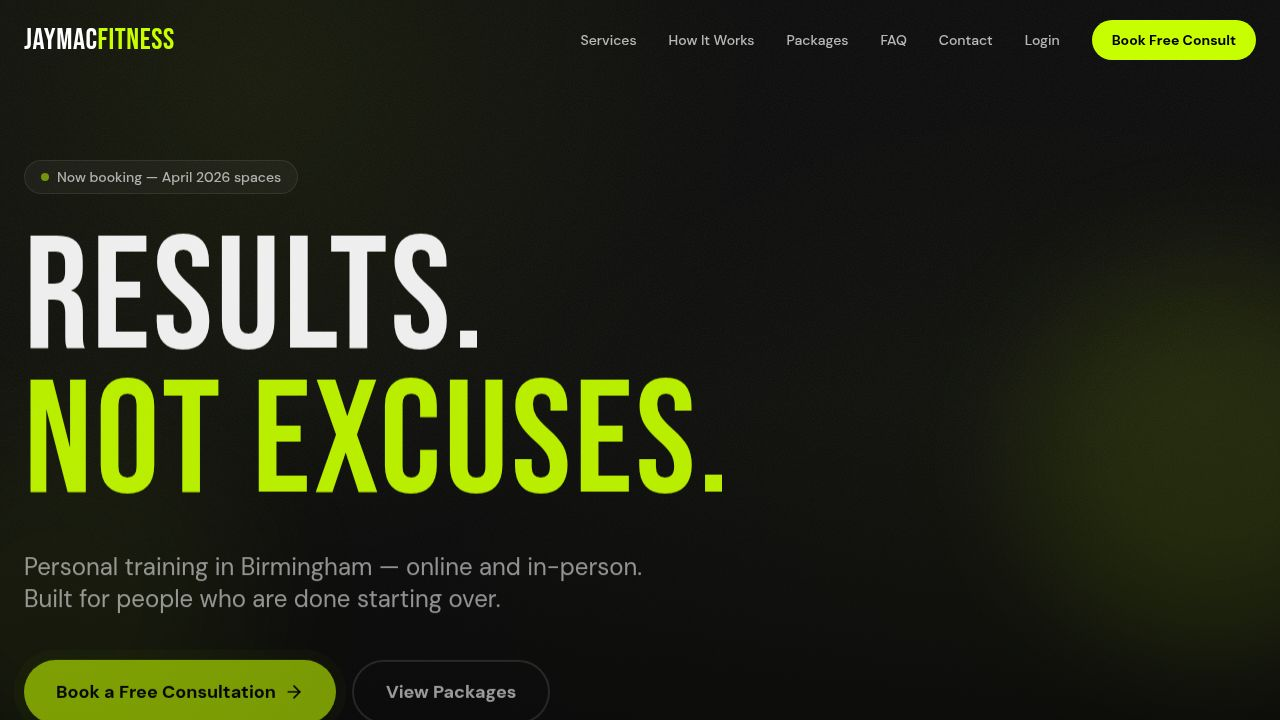
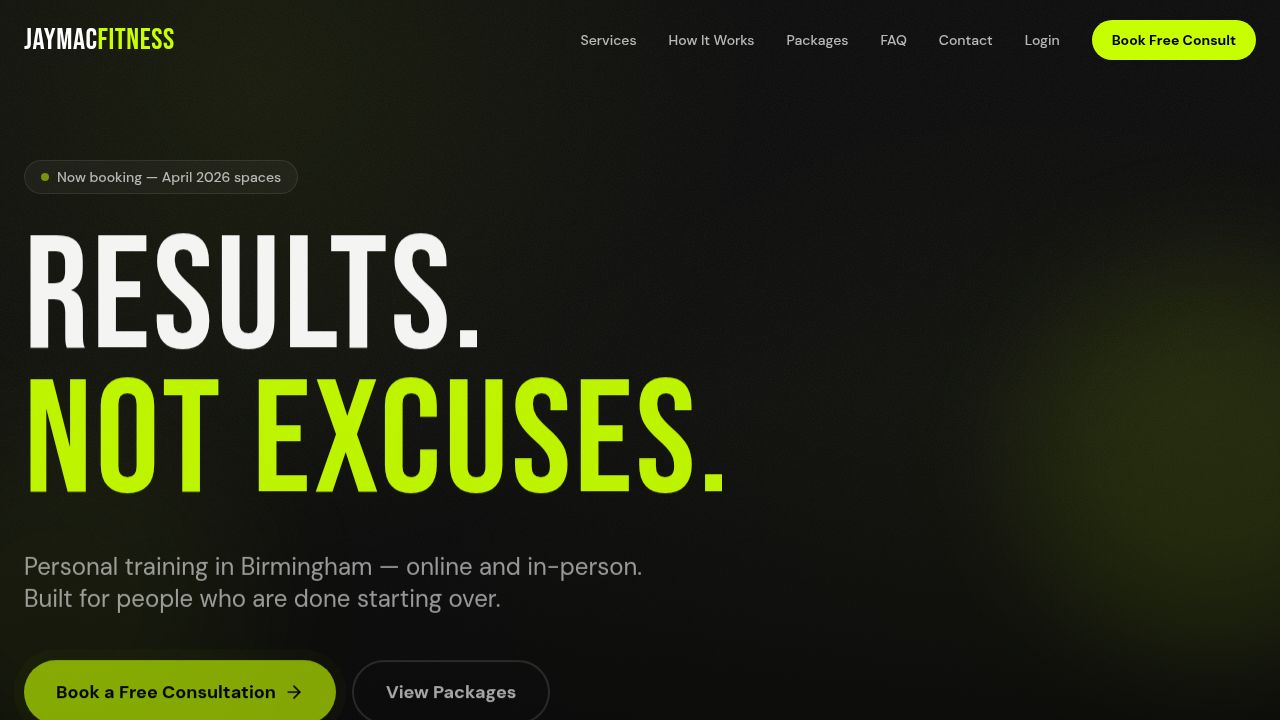
Update website with new brand design and animations
Integrates new brand colors, fonts, and scroll reveal animations by modifying index.html, index.css, and adding a new scroll reveal utility.

Replit-Commit-Author: Agent
Replit-Commit-Session-Id: 063ad3c7-bd3a-4355-8c81-c77b68ed282b
Replit-Commit-Checkpoint-Type: full_checkpoint
Replit-Commit-Event-Id: 6ffffbf3-f197-4167-8d24-1343ebe39515
Replit-Commit-Screenshot-Url: https://storage.googleapis.com/screenshot-production-us-central1/34500658-50cf-4da8-bcaa-9214d503f589/063ad3c7-bd3a-4355-8c81-c77b68ed282b/BA3gLNy
Replit-Helium-Checkpoint-Created: true

Changed region(s): [[0.5, 0.5194, 0.5312, 0.55], [0.4062, 0.5194, 0.4375, 0.55]]

diff --git a/artifacts/jaymacfitness/src/index.css b/artifacts/jaymacfitness/src/index.css
@@ -64,6 +64,16 @@
   --radius-md: calc(var(--radius) - 2px);
   --radius-lg: var(--radius);
   --radius-xl: calc(var(--radius) + 4px);
+
+  /* Jay Mac brand palette — usable as Tailwind utilities (bg-navy, text-blue-soft, etc.) */
+  --color-navy: #0D1B2A;
+  --color-navy-dark: #0A1628;
+  --color-navy-mid: #112240;
+  --color-navy-steel: #1A3A5C;
+  --color-blue: #1E90FF;
+  --color-blue-soft: #4DAAFF;
+  --color-blue-glow: rgba(30, 144, 255, 0.15);
+  --color-offwhite: #C8D8E8;
 }
 
 /* LIGHT MODE */
@@ -409,4 +419,100 @@
   .border.hover-elevate:not(.no-hover-interaction-elevate)::after {
     inset: -1px;
   }
+}
+/* ===========================================================================
+   JAY MAC FITNESS BRAND DESIGN SYSTEM
+   =========================================================================== */
+:root {
+  --brand-blue: #1E90FF;
+  --brand-navy: #0D1B2A;
+  --brand-dark: #0A1628;
+  --brand-mid: #112240;
+  --brand-steel: #1A3A5C;
+  --brand-white: #FFFFFF;
+  --brand-off-white: #C8D8E8;
+  --brand-blue-glow: rgba(30, 144, 255, 0.15);
+  --brand-blue-soft: #4DAAFF;
+}
+
+body {
+  background-color: var(--brand-navy);
+  color: var(--brand-white);
+  font-family: 'Inter', sans-serif;
+  -webkit-font-smoothing: antialiased;
+}
+
+/* Brand headline + subhead helpers — opt-in via class so existing pages stay untouched */
+.headline {
+  font-family: 'Barlow Condensed', sans-serif;
+  font-style: italic;
+  font-weight: 900;
+}
+
+.subhead {
+  font-family: 'Barlow', sans-serif;
+  font-weight: 700;
+}
+
+/* Entrance animation */
+@keyframes fadeUp {
+  from { opacity: 0; transform: translateY(28px); }
+  to   { opacity: 1; transform: translateY(0); }
+}
+.fade-up { animation: fadeUp 0.55s ease-out both; }
+.fade-up.delay-1 { animation-delay: 0.10s; }
+.fade-up.delay-2 { animation-delay: 0.22s; }
+.fade-up.delay-3 { animation-delay: 0.36s; }
+.fade-up.delay-4 { animation-delay: 0.50s; }
+
+/* Blue glow primary button */
+.btn-primary {
+  display: inline-block;
+  background: var(--brand-blue);
+  color: #fff;
+  font-family: 'Barlow', sans-serif;
+  font-weight: 700;
+  letter-spacing: 0.06em;
+  text-transform: uppercase;
+  padding: 14px 32px;
+  border-radius: 3px;
+  transition: all 0.18s ease;
+  box-shadow: 0 0 24px rgba(30, 144, 255, 0.35);
+  border: none;
+  cursor: pointer;
+}
+.btn-primary:hover {
+  background: #4DAAFF;
+  box-shadow: 0 0 36px rgba(30, 144, 255, 0.6);
+  transform: translateY(-1px);
+}
+
+.btn-ghost {
+  display: inline-block;
+  border: 2px solid var(--brand-blue);
+  color: var(--brand-blue);
+  font-family: 'Barlow', sans-serif;
+  font-weight: 700;
+  letter-spacing: 0.06em;
+  text-transform: uppercase;
+  padding: 12px 32px;
+  border-radius: 3px;
+  background: transparent;
+  transition: all 0.18s ease;
+  cursor: pointer;
+}
+.btn-ghost:hover {
+  background: var(--brand-blue-glow);
+  color: #fff;
+}
+
+/* IntersectionObserver scroll reveal */
+.reveal {
+  opacity: 0;
+  transform: translateY(24px);
+  transition: opacity 0.55s ease, transform 0.55s ease;
+}
+.reveal.visible {
+  opacity: 1;
+  transform: translateY(0);
 }

diff --git a/artifacts/jaymacfitness/src/utils/scrollReveal.ts b/artifacts/jaymacfitness/src/utils/scrollReveal.ts
@@ -1,0 +1,65 @@
+// Adds the 'visible' class to any element with class 'reveal' when it enters
+// the viewport. Runs once per element (does not toggle back on scroll up).
+//
+// Usage:
+//   import { initScrollReveal } from "./utils/scrollReveal";
+//   useEffect(() => initScrollReveal(), []);
+//
+// Then in JSX:
+//   <div className="reveal">Animates in</div>
+//   <div className="reveal" style={{ transitionDelay: "0.1s" }}>Staggered</div>
+//
+// For grids, you can stagger via CSS nth-child:
+//   .grid > .reveal:nth-child(2) { transition-delay: 0.1s }
+
+let observer: IntersectionObserver | null = null;
+
+function bindObserver(root: ParentNode = document) {
+  if (!observer) return;
+  root.querySelectorAll<HTMLElement>(".reveal:not(.visible)").forEach((el) => {
+    observer!.observe(el);
+  });
+}
+
+export function initScrollReveal(): () => void {
+  if (typeof window === "undefined" || typeof IntersectionObserver === "undefined") {
+    return () => {};
+  }
+
+  // Reuse a single observer across calls so re-mounts don't leak.
+  if (!observer) {
+    observer = new IntersectionObserver(
+      (entries) => {
+        for (const entry of entries) {
+          if (entry.isIntersecting) {
+            entry.target.classList.add("visible");
+            observer!.unobserve(entry.target);
+          }
+        }
+      },
+      { rootMargin: "0px 0px -10% 0px", threshold: 0.08 },
+    );
+  }
+
+  bindObserver();
+
+  // Watch the DOM so reveal elements added later (route changes, async data)
+  // are picked up automatically.
+  const mutation = new MutationObserver((mutations) => {
+    for (const m of mutations) {
+      m.addedNodes.forEach((node) => {
+        if (node.nodeType !== 1) return;
+        const el = node as HTMLElement;
+        if (el.classList?.contains("reveal") && !el.classList.contains("visible")) {
+          observer!.observe(el);
+        }
+        bindObserver(el);
+      });
+    }
+  });
+  mutation.observe(document.body, { childList: true, subtree: true });
+
+  return () => {
+    mutation.disconnect();
+  };
+}

diff --git a/artifacts/jaymacfitness/index.html b/artifacts/jaymacfitness/index.html
@@ -3,11 +3,11 @@
   <head>
     <meta charset="UTF-8" />
     <meta name="viewport" content="width=device-width, initial-scale=1.0, maximum-scale=1" />
-    <title>JayMacFitness</title>
+    <title>Jay Mac Fitness — Achieve Your Goals</title>
     <link rel="icon" type="image/svg+xml" href="/favicon.svg" />
     <link rel="preconnect" href="https://fonts.googleapis.com">
     <link rel="preconnect" href="https://fonts.gstatic.com" crossorigin>
-    <link href="https://fonts.googleapis.com/css2?family=Bebas+Neue&family=DM+Sans:wght@400;500;600;700;800&family=Inter:wght@400;500;600;700&display=swap" rel="stylesheet">
+    <link href="https://fonts.googleapis.com/css2?family=Barlow+Condensed:ital,wght@1,900&family=Barlow:wght@400;600;700&family=Inter:wght@400;500&family=Bebas+Neue&family=DM+Sans:wght@400;500;600;700;800&display=swap" rel="stylesheet">
   </head>
   <body>
     <div id="root"></div>

diff --git a/artifacts/jaymacfitness/src/App.tsx b/artifacts/jaymacfitness/src/App.tsx
@@ -1,8 +1,10 @@
+import { useEffect } from "react";
 import { BrowserRouter, Routes, Route, Navigate, useParams } from "react-router-dom";
 import { QueryClient, QueryClientProvider } from "@tanstack/react-query";
 import { Toaster } from "@/components/ui/toaster";
 import { TooltipProvider } from "@/components/ui/tooltip";
 import { AuthProvider } from "./contexts/AuthContext";
+import { initScrollReveal } from "./utils/scrollReveal";
 import { ProtectedRoute } from "./components/ProtectedRoute";
 import { Layout } from "./components/layout";
 import { DashboardLayout } from "./components/dashboard-layout";
@@ -49,6 +51,11 @@ const queryClient = new QueryClient({
 });
 
 function App() {
+  useEffect(() => {
+    const cleanup = initScrollReveal();
+    return cleanup;
+  }, []);
+
   return (
     <QueryClientProvider client={queryClient}>
       <AuthProvider>
